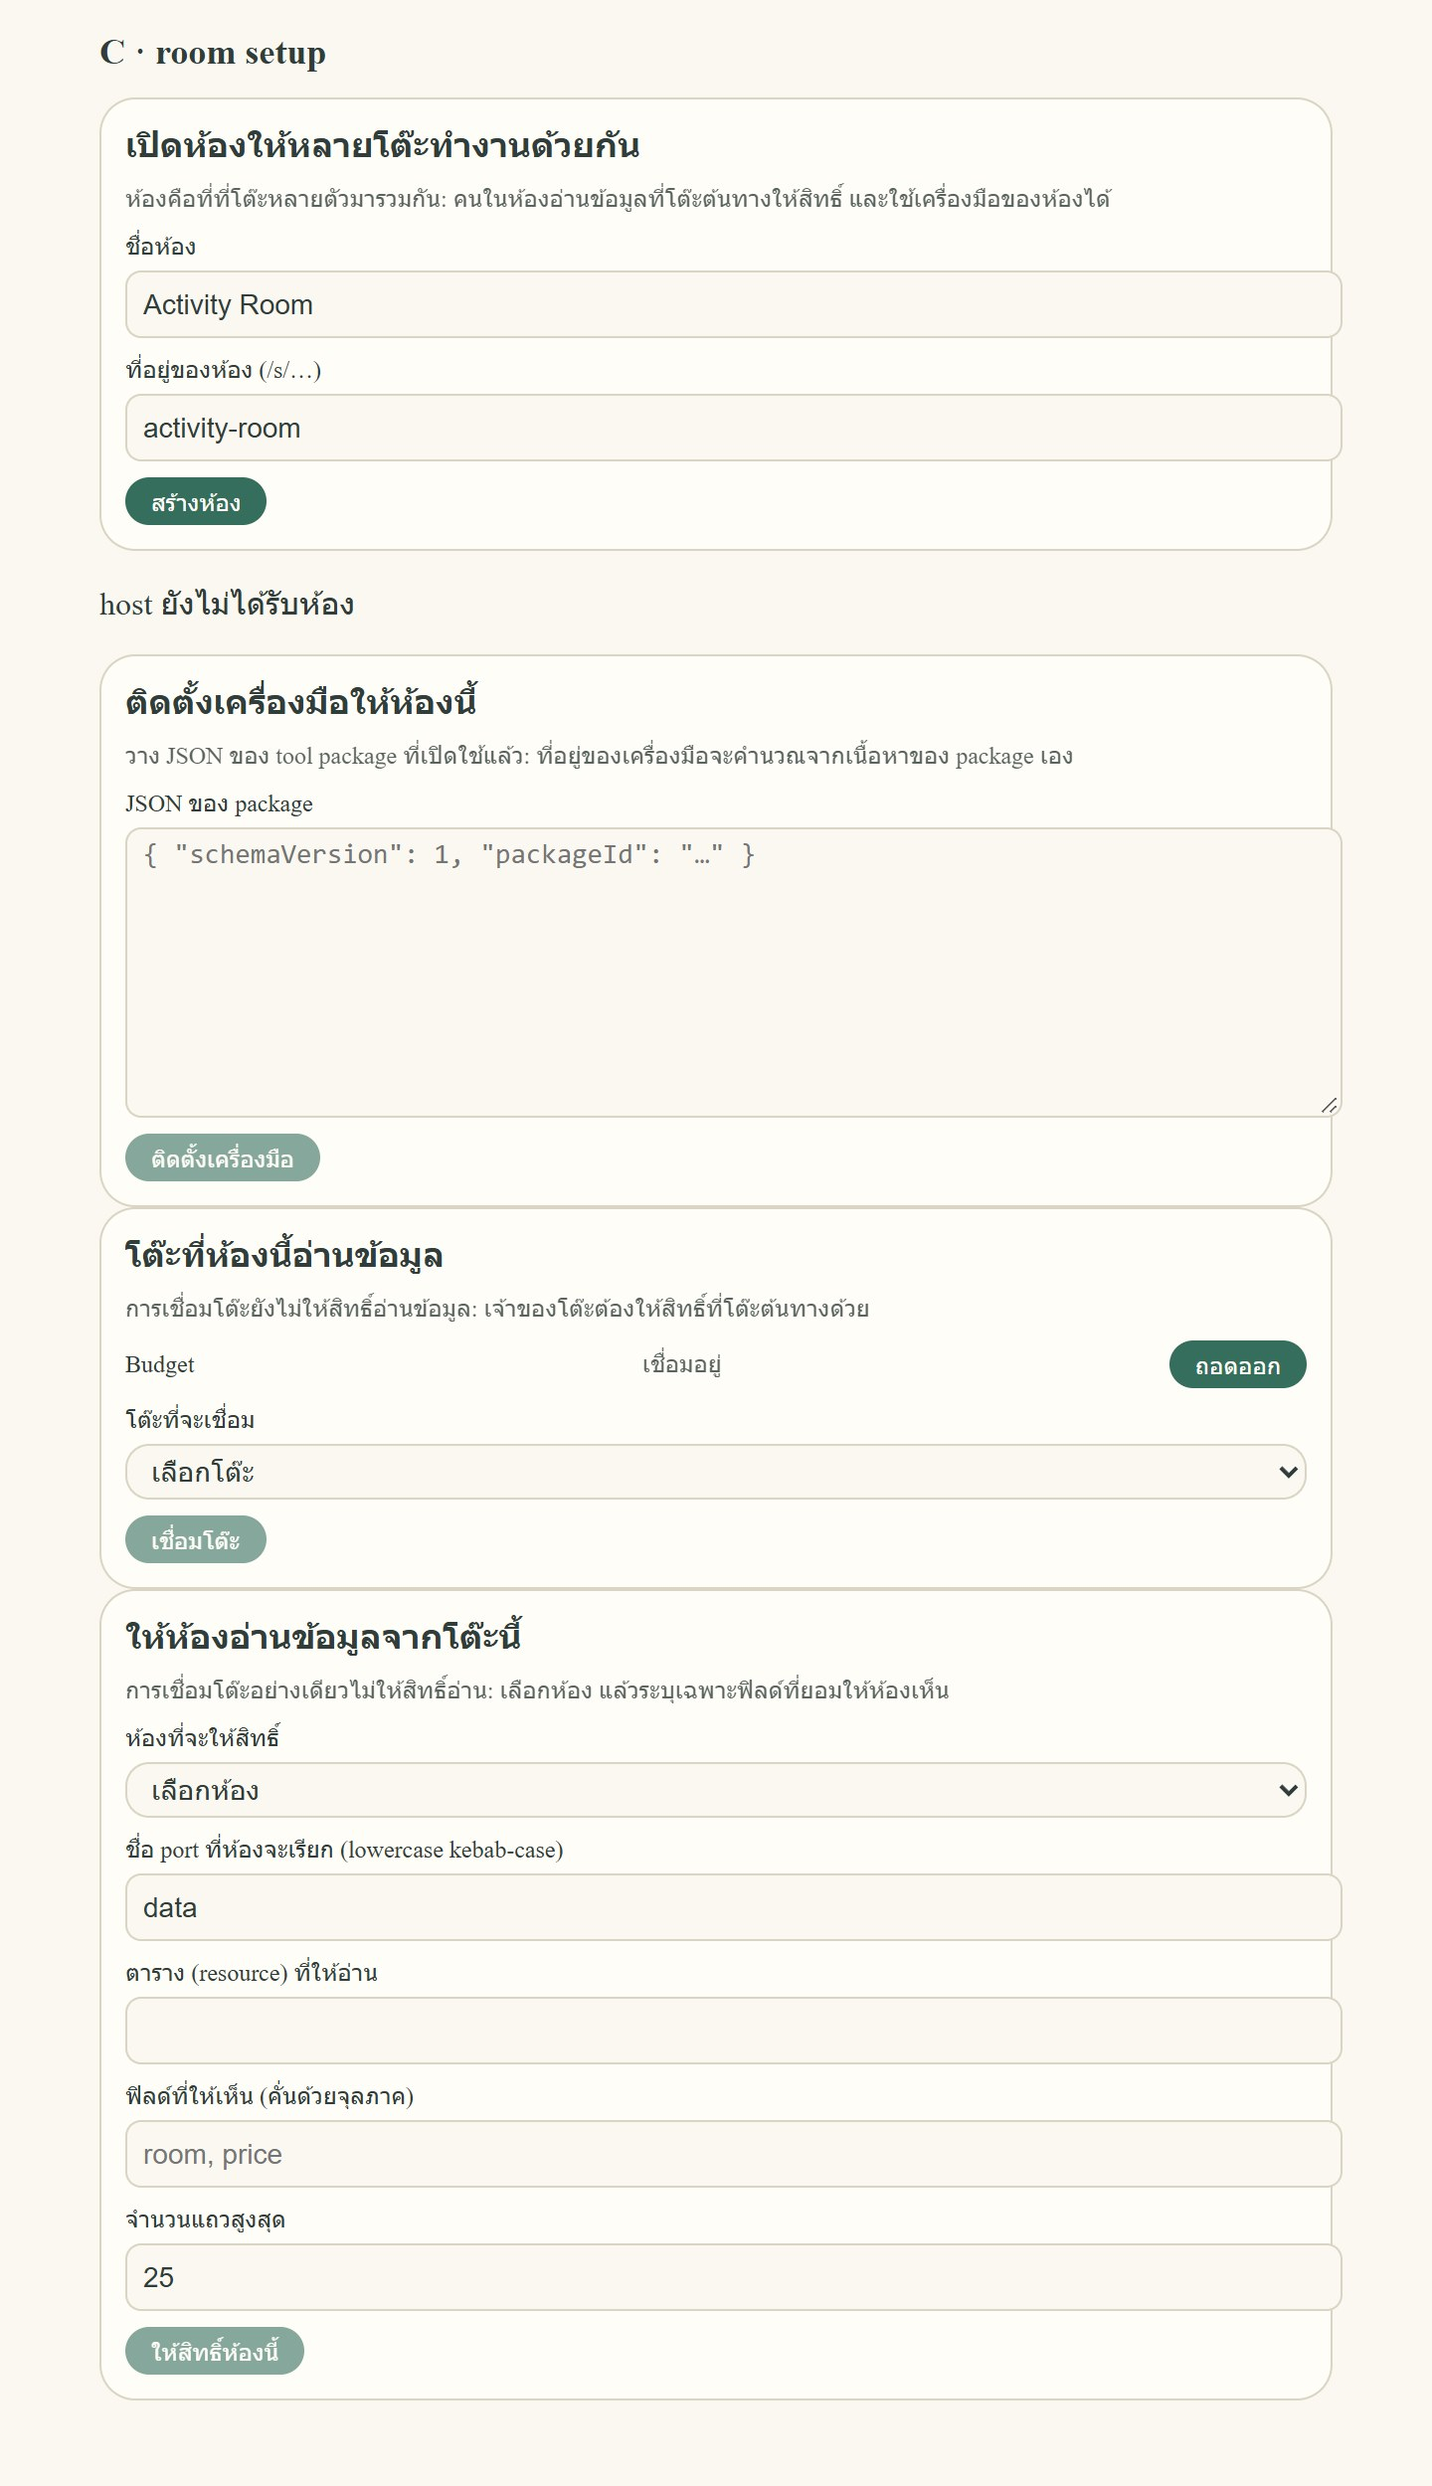
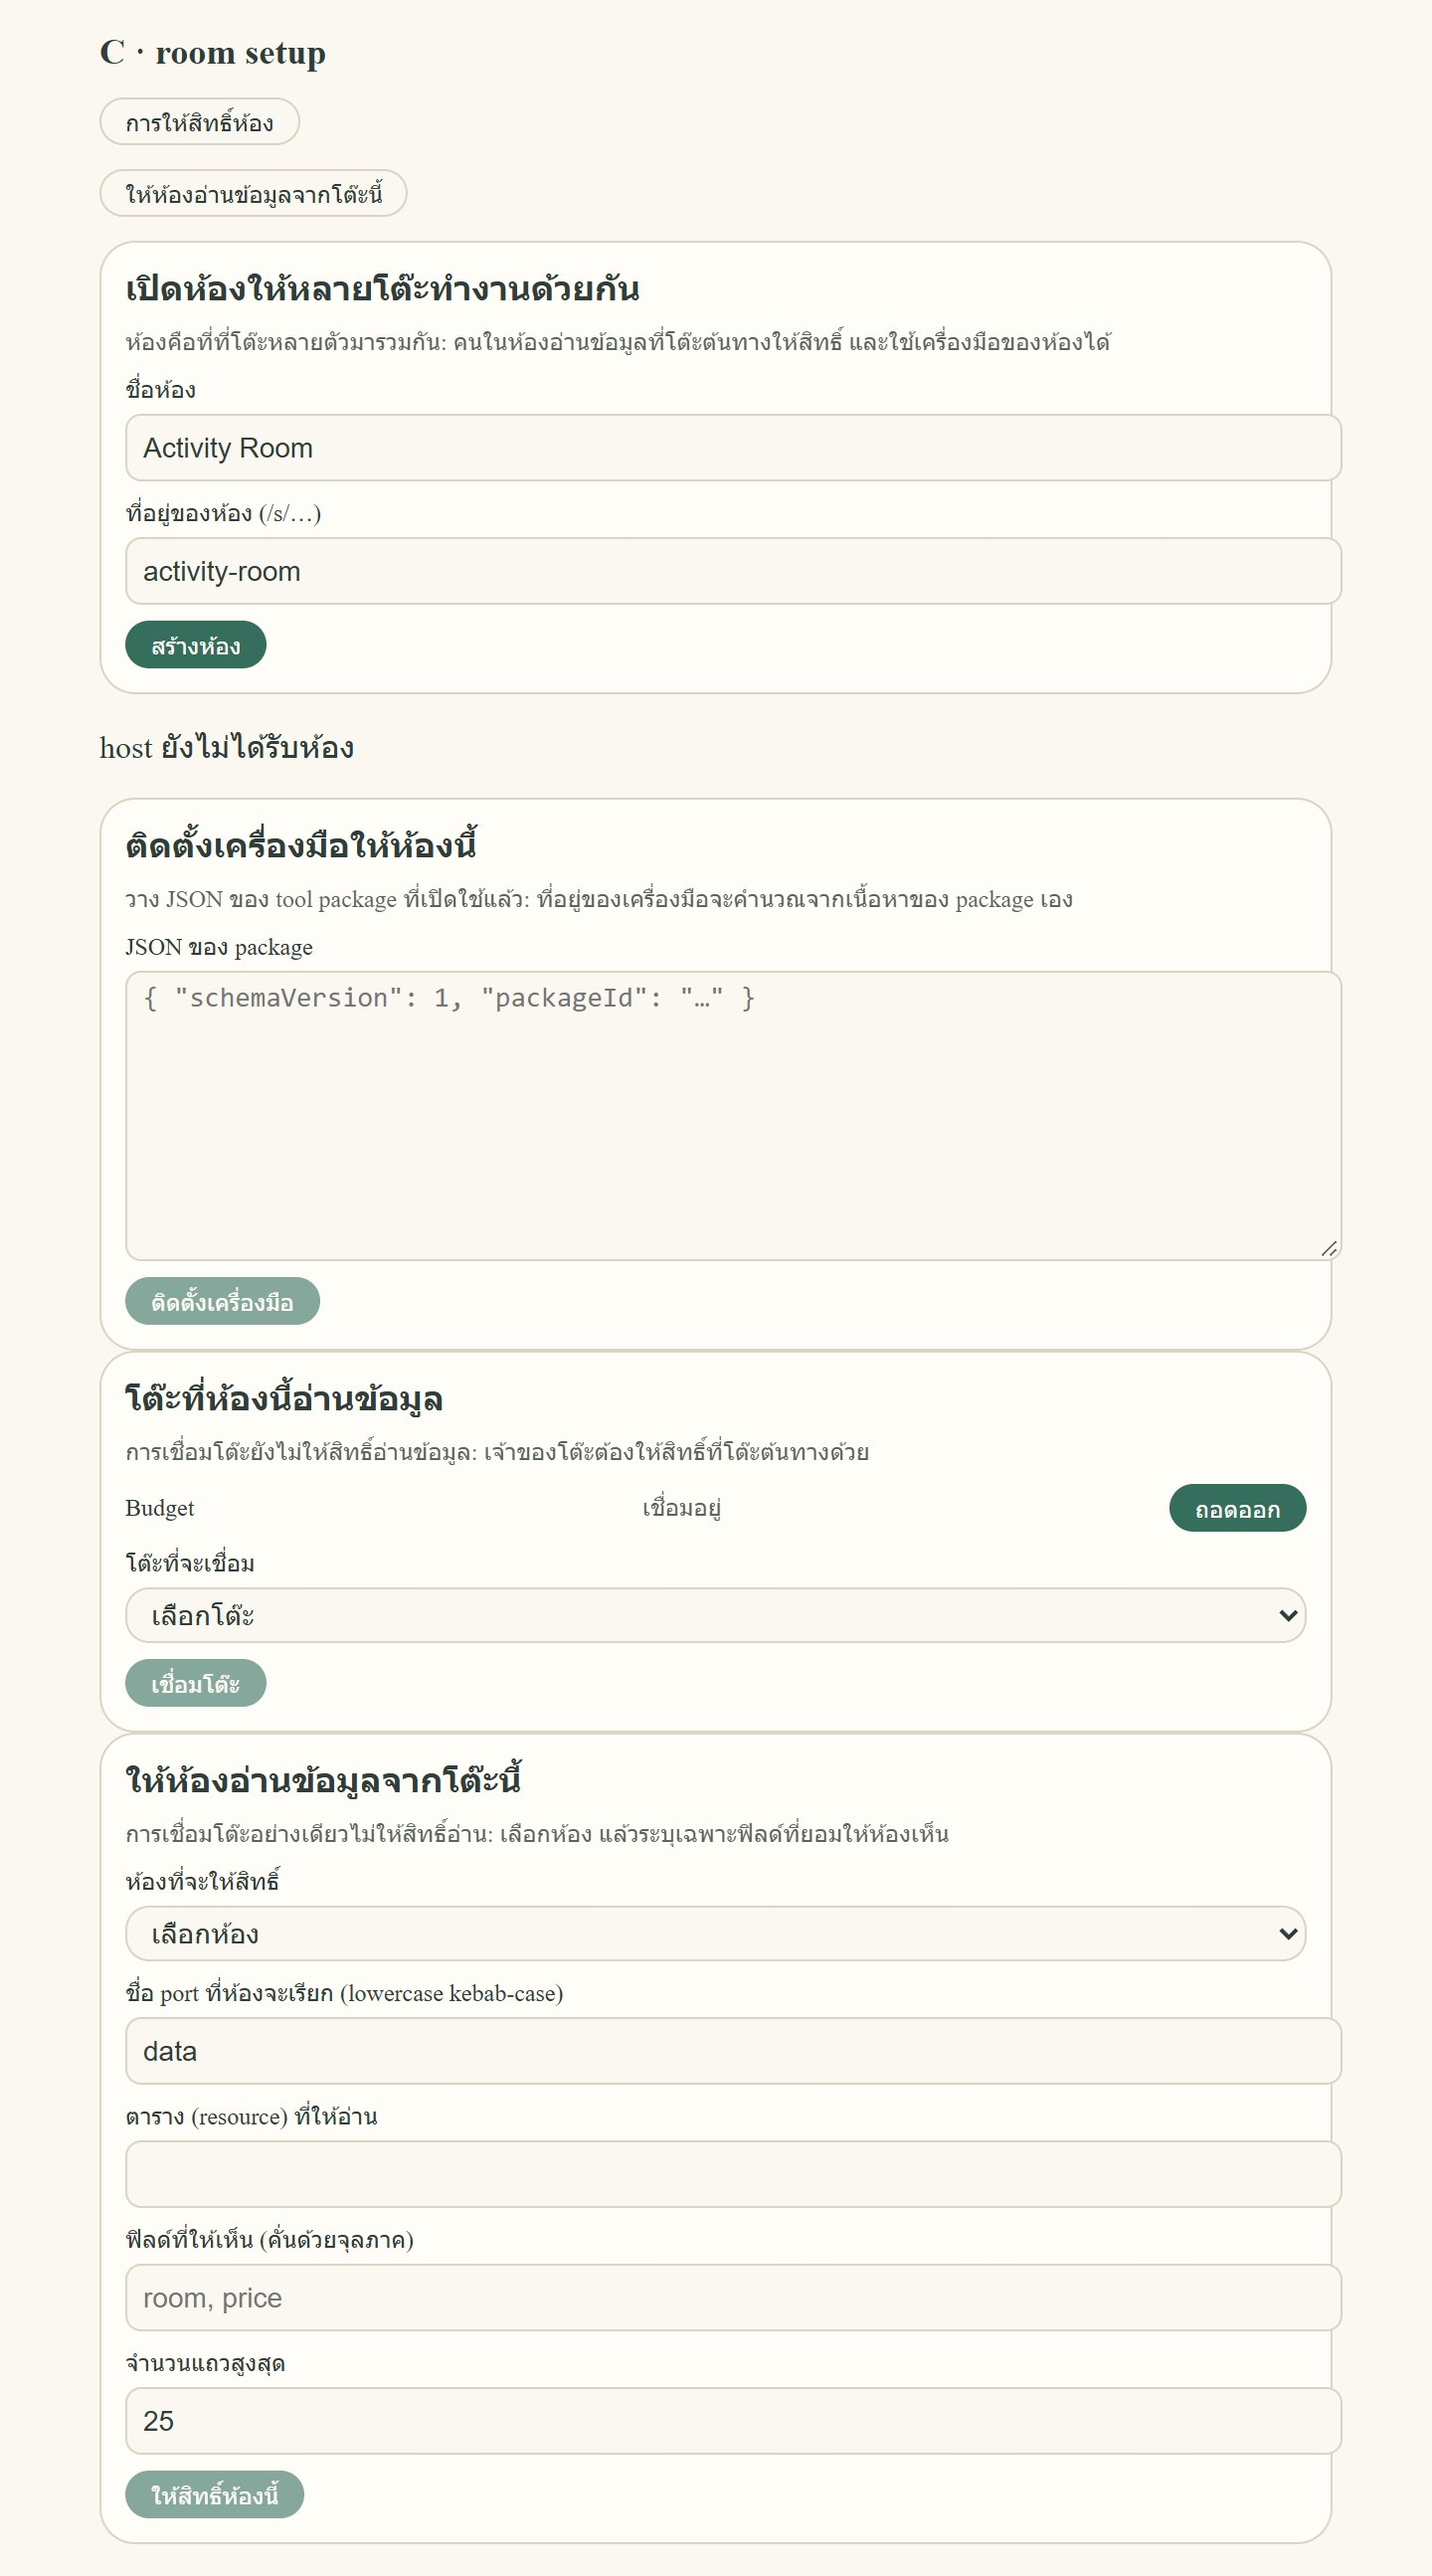
F080-D055: grant a room read access from the table page

diff --git a/src/tabletop/TabletopApp.tsx b/src/tabletop/TabletopApp.tsx
@@ -24,6 +24,8 @@ import type { AddableWebSource } from './workspace/table-chat-state';
 import { EVIDENCE_SOURCE_OBJECT, EVIDENCE_TABLE_OBJECT, focusRequest, nextHistoryWrite, pageForPath, pathForProjection, shouldApplyLateOpen, signInReturnPath, tableChangeReset, type AppPage } from './navigation/workspace-navigation';
 import { TableSurface } from './ui/TableSurface';
 import { RoomSetupPanel, type RoomSetupResult } from './ui/RoomSetupPanel';
+import { SpaceGrantPanel } from './ui/SpaceGrantPanel';
+import './ui/table-panel.css';
 import { StartPage } from './ui/StartPage';
 import { starterFor } from './shared/starters';
 import { displayWorkspaceTitle, normalizeWorkspaceTitle, WORKSPACE_TITLE_MAX_CHARS } from './shared/workspace-title';
@@ -545,6 +547,42 @@ export default function TabletopApp() {
     }
   }, [runCommand, setWorkspace]);
 
+  const [grantOpen, setGrantOpen] = useState(false);
+  // Rooms this viewer belongs to, from the session list; the panel offers them as grant targets.
+  const grantRooms = (session?.workspaces ?? [])
+    .filter(workspace => workspace.id !== view?.id)
+    .map(workspace => ({ workspaceId: workspace.id, spaceId: workspace.id, title: workspace.title }));
+
+  /**
+   * F080 / D-054: let a room read one projection of this table.
+   *
+   * The command goes to this table (the source), so the owner's own authority applies, and the panel
+   * chose the fields and the row cap.
+   */
+  const grantRoomRead = useCallback(async (input: {
+    sourceWorkspaceId: string;
+    spaceWorkspaceId: string;
+    spaceId: string;
+    portId: string;
+    resource: string;
+    fields: string[];
+    maxRows: number;
+  }): Promise<{ ok: boolean; message: string }> => {
+    try {
+      await runCommand('source.grantProjection', {
+        grantId: `grant-${crypto.randomUUID()}`,
+        spaceId: input.spaceId,
+        spaceWorkspaceId: input.spaceWorkspaceId,
+        audience: { kind: 'space-members' },
+        projections: [{ portId: input.portId, resource: input.resource, fields: input.fields, maxRows: input.maxRows }],
+        actions: [],
+      });
+      return { ok: true, message: `ให้สิทธิ์ห้อง ${input.spaceId} แล้ว` };
+    } catch (error) {
+      return { ok: false, message: errorText(error) };
+    }
+  }, [runCommand]);
+
   const importTableFile = useCallback(
     (targetView: WorkspaceView, file: File) => commands.importTableFile(targetView, file),
     [commands],
@@ -857,6 +895,25 @@ export default function TabletopApp() {
         </button>
         {roomSetupOpen ? (
           <RoomSetupPanel createRoom={createRoom} defaultTitle={view.title} />
+        ) : null}
+      </section>
+
+      {/* D-054: an owner grants a room read access from the table that holds the data. */}
+      <section className="tt-panel">
+        <button
+          type="button"
+          className="tt-panel__toggle"
+          aria-expanded={grantOpen}
+          onClick={() => setGrantOpen(open => !open)}
+        >
+          {grantOpen ? 'ซ่อนการให้สิทธิ์ห้อง' : 'ให้ห้องอ่านข้อมูลจากโต๊ะนี้'}
+        </button>
+        {grantOpen ? (
+          <SpaceGrantPanel
+            sourceWorkspaceId={view.id}
+            rooms={grantRooms}
+            grantProjection={grantRoomRead}
+          />
         ) : null}
       </section>
 

diff --git a/tests/ui/room-setup/harness.tsx b/tests/ui/room-setup/harness.tsx
@@ -10,8 +10,20 @@ import { SpaceGrantPanel } from '../../../src/tabletop/ui/SpaceGrantPanel';
  * stylesheet, so the UI gate measures the product's styling rather than a mock.
  */
 
-function Harness(): React.ReactElement {
-  const [created, setCreated] = useState<string | undefined>();
+/** The collapsible section from the table page, with the state the real one has. */
+function PanelToggle(props: { label: string }): React.ReactElement {
+  const [open, setOpen] = useState(false);
+  return (
+    <section className="tt-panel">
+      <button type="button" className="tt-panel__toggle" aria-expanded={open} onClick={() => setOpen(value => !value)}>
+        {open ? `ซ่อน${props.label}` : props.label}
+      </button>
+      {open ? <p className="tt-setup__hint">เนื้อหาที่แสดงเมื่อเปิด</p> : null}
+    </section>
+  );
+}
+
+function Harness(): React.ReactElement {  const [created, setCreated] = useState<string | undefined>();
 
   const createRoom = async (input: { spaceId: string; title: string }): Promise<RoomSetupResult> => {
     // A refused slug is what the authority would say, so the harness can show both states.
@@ -27,6 +39,9 @@ function Harness(): React.ReactElement {
   return (
     <main style={{ maxWidth: 620, margin: '0 auto', padding: 16 }}>
       <h1 style={{ fontSize: 18, marginTop: 0 }}>C · room setup</h1>
+      {/* D-055: the collapsible section the table page uses, so the gate measures its styles too. */}
+      <PanelToggle label="การให้สิทธิ์ห้อง" />
+      <PanelToggle label="ให้ห้องอ่านข้อมูลจากโต๊ะนี้" />
       <RoomSetupPanel createRoom={createRoom} defaultTitle="Activity Room" onCreated={setCreated} />
       <p data-testid="harness-created" role="status">{created ? `host ได้รับห้อง: /s/${created}` : 'host ยังไม่ได้รับห้อง'}</p>
       <ToolInstallPanel installTool={installTool as never} />

diff --git a/src/tabletop/ui/table-panel.css b/src/tabletop/ui/table-panel.css
@@ -1,0 +1,28 @@
+/*
+ * F080 / D-055: the collapsible setup sections on the table page.
+ *
+ * Tokens only. The toggle reads as a quiet inline action, not a primary button, because it sits above
+ * the table surface and must not compete with it.
+ */
+
+.tt-panel {
+  display: grid;
+  gap: var(--tt-space-2);
+  margin-block-end: var(--tt-space-3);
+}
+
+.tt-panel__toggle {
+  justify-self: start;
+  min-block-size: var(--tt-space-6);
+  padding: 0 var(--tt-space-3);
+  border: 1px solid var(--tt-line);
+  border-radius: var(--tt-button-radius);
+  background: var(--tt-cream-1);
+  color: var(--tt-ink);
+  font-size: var(--tt-type-small);
+  cursor: pointer;
+}
+
+.tt-panel__toggle[aria-expanded='true'] {
+  background: var(--tt-cream-2);
+}

diff --git a/docs/features/F080-custom-tools-joined-tables/decisions.md b/docs/features/F080-custom-tools-joined-tables/decisions.md
@@ -730,3 +730,17 @@ Log การตัดสินใจที่ผูกกับ contract/สถ
 **หลักฐาน:** `space-grant-input.test.ts` **4/4** (รวม: ปฏิเสธ payload ที่มีแต่ slug ไม่มี workspace — เพราะ authority เทียบ workspace), typecheck 3 config, **ui-gate 17/17 measured** บน harness ที่แสดงทั้ง 4 panel
 
 **ยังไม่ผูกเข้าหน้าโต๊ะ:** panel พร้อมและผ่านเกต แต่การวางใน `TableSurface` ต้องเลือกตำแหน่งให้ไม่รบกวนหน้าหลัก — ทำเป็นสไลซ์ถัดไป (บทเรียนจาก D-052: ไม่ยัดการผูกที่ typecheck ไม่ผ่าน)
+## D-055 — ผูก panel เข้าหน้าโต๊ะจริง + สไตล์ของส่วนพับได้
+
+**สิ่งที่ทำ:**
+- `TabletopApp`: เพิ่มส่วนพับได้ "ให้ห้องอ่านข้อมูลจากโต๊ะนี้" ใต้ส่วนสร้างห้อง และ handler `grantRoomRead` ที่ส่ง `source.grantProjection` ไปที่ **โต๊ะที่กำลังเปิด** (authority ของเจ้าของใช้บังคับ) พร้อมรายการห้องจาก session
+- `table-panel.css`: สไตล์ของ `tt-panel` / `tt-panel__toggle` ด้วย token เท่านั้น (ตัวนี้ขาดมาตลอดตั้งแต่ D-050 — ผมตรวจไม่เจอจนกระทั่งเขียนสไตล์จริง)
+
+**หลักฐาน:** typecheck 3 config · **ui-gate 17/17 measured** (harness แสดง toggle ที่มี state จริงแบบเดียวกับแอป)
+
+**บทเรียนจากเกต 3 ครั้งในงานเดียว (ทั้งหมดเป็นข้อผิดพลาดของผม ไม่ใช่ของเกต):**
+1. `outline: 2px` ที่ผมใส่เอง — ไล่หา token แล้วไม่มี; `ds-allow-hardcode` ใช้ไม่ได้เพราะ **minify ตัดคอมเมนต์ก่อนเกตเห็น** ⇒ ตัด focus style ที่ประดิษฐ์เองออก แล้วใช้พฤติกรรมเดิมของผลิตภัณฑ์ (ถูกต้องกว่าการเพิ่ม token ใหม่เพื่อรองรับของที่ไม่มีใครขอ)
+2. ปุ่มใน harness ที่ "กดแล้วไม่เปลี่ยนอะไร" ⇒ เกตจับได้ (dead control) ⇒ ทำให้มี `useState` จริง
+3. ก่อนหน้านั้น: `px` literal, radius เดียวทุกกล่อง, overflow 2px ที่ 280px
+
+**ข้อจำกัดที่ยังเหลือ:** `grantRooms` ใช้ workspace id เป็น slot ของห้อง (`spaceId: workspace.id`) เพราะ session list ไม่มี slug — ห้องที่สร้างจาก D-050 มี slug ของตัวเอง การให้สิทธิ์จึงผูกด้วย workspace เป็นหลัก ซึ่งตรงกับสิ่งที่ authority ใช้ตรวจ

diff --git a/changelog.d/080-mount-grant-panel.md b/changelog.d/080-mount-grant-panel.md
@@ -1,0 +1,1 @@
+- **F080 (D-055):** the table page can grant a room read access. A collapsed section under the create-room control opens the grant panel, and the command is sent to the table being viewed, so the owner's own authority applies. The section's styles were missing since D-050 and are now in `table-panel.css` using tokens only. The UI gate measured 17/17, after catching a focus ring I invented, a comment that minification stripped, and a harness button that changed nothing.
